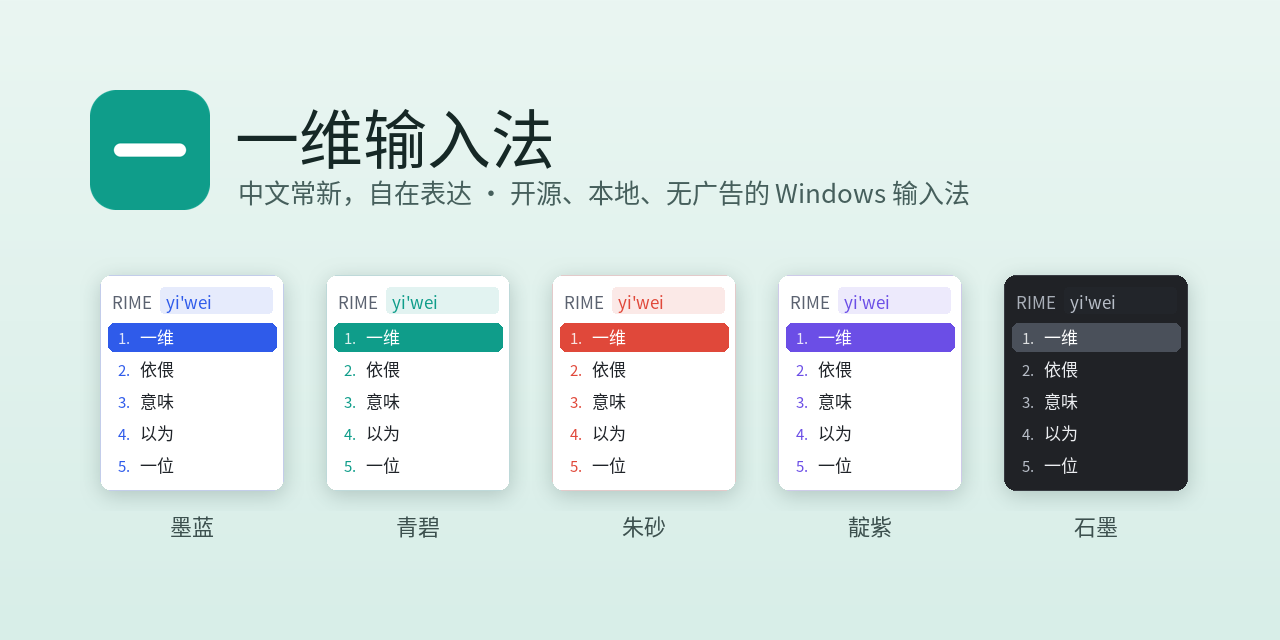
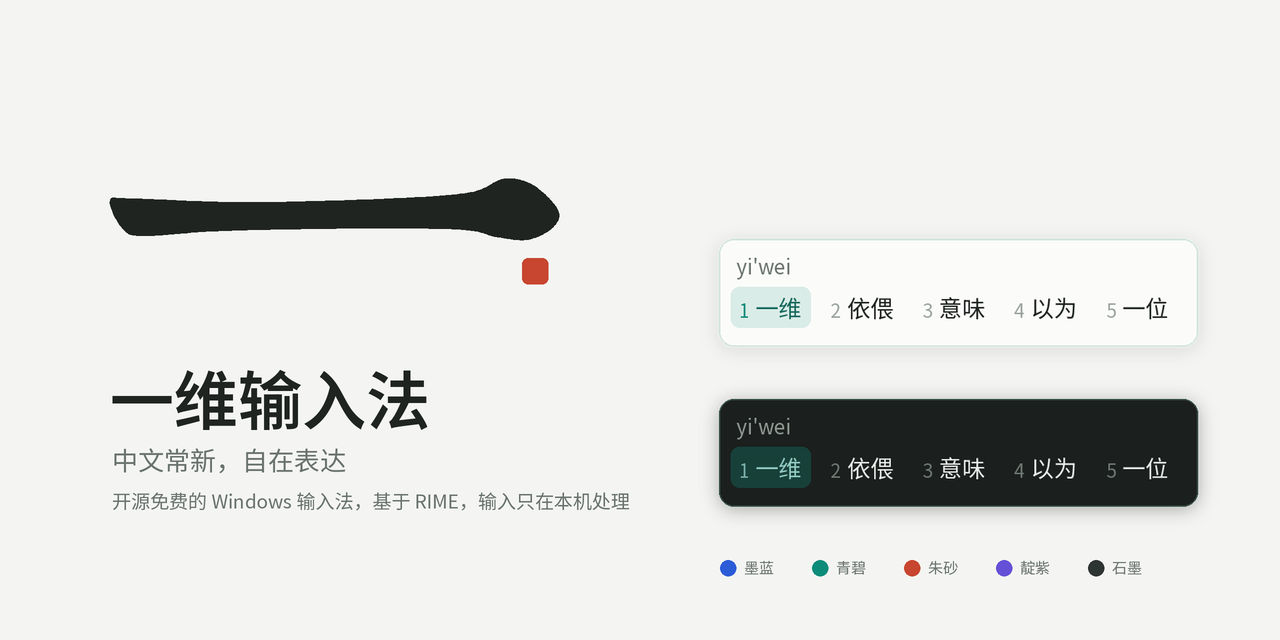
README 横幅与配色图换成「墨线」风格

diff --git a/scripts/design/banner.py b/scripts/design/banner.py
@@ -1,0 +1,24 @@
+import sys; sys.path.insert(0,'/workspace/work/yiwei-ime/scripts'); sys.path.insert(0,'/workspace/work/yiwei-ime/scripts/design')
+from PIL import Image, ImageDraw, ImageFilter
+from fonts import F
+import icon
+from brand_schemes import BRANDS, scheme
+from skins import card, rgba
+PAPER=(244,245,242); INK=(31,36,33); MUTE=(106,115,110); SEAL=(200,69,47)
+S=2; W,H=1280*S,640*S
+im=Image.new('RGBA',(W,H),PAPER+(255,)); d=ImageDraw.Draw(im)
+icon.PTS[:]=[(x,y*0.55) for x,y in icon.BASE]
+icon.stroke(d,S,(110*S,190*S,560*S,0),INK+(255,))
+s=26*S; d.rounded_rectangle((522*S,258*S,522*S+s,258*S+s),6*S,fill=SEAL+(255,))
+d.text((110*S,350*S),"一维输入法",font=F(64*S,600),fill=INK+(255,))
+d.text((112*S,440*S),"中文常新，自在表达",font=F(26*S),fill=MUTE+(255,))
+d.text((112*S,486*S),"开源免费的 Windows 输入法，基于 RIME，输入只在本机处理",font=F(19*S),fill=MUTE+(255,))
+# one candidate window, big, the real thing
+c=card(scheme('qingbi',0x0E8C7A,False)); c=c.resize((int(c.width*1.45),int(c.height*1.45)),Image.LANCZOS)
+im.alpha_composite(c,(690*S,210*S))
+cd=card(scheme('qingbi',0x0E8C7A,True)); cd=cd.resize((int(cd.width*1.45),int(cd.height*1.45)),Image.LANCZOS)
+im.alpha_composite(cd,(690*S,370*S))
+x=720*S
+for bid,name,rgb in BRANDS:
+    d.ellipse((x,560*S,x+16*S,576*S),fill=((rgb>>16)&255,(rgb>>8)&255,rgb&255,255)); d.text((x+24*S,556*S),name,font=F(15*S),fill=MUTE+(255,)); x+=92*S
+im.resize((1280,640),Image.LANCZOS).convert('RGB').save(sys.argv[1])
